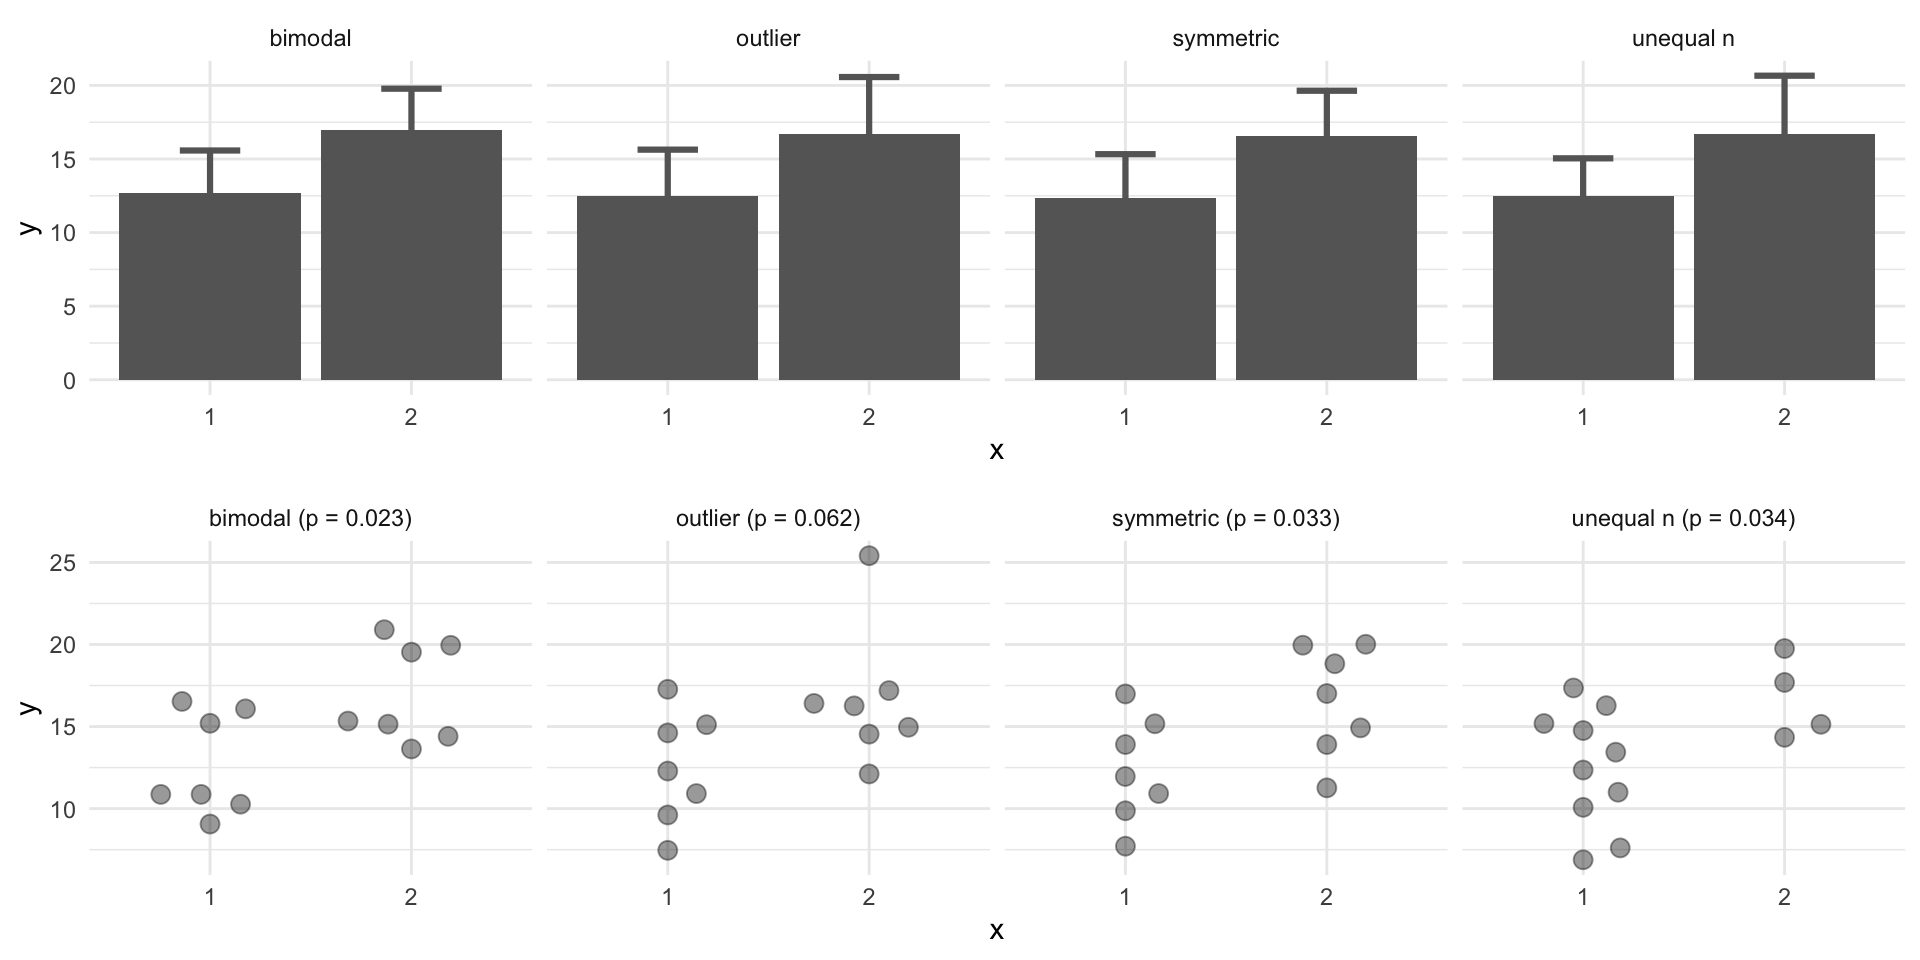
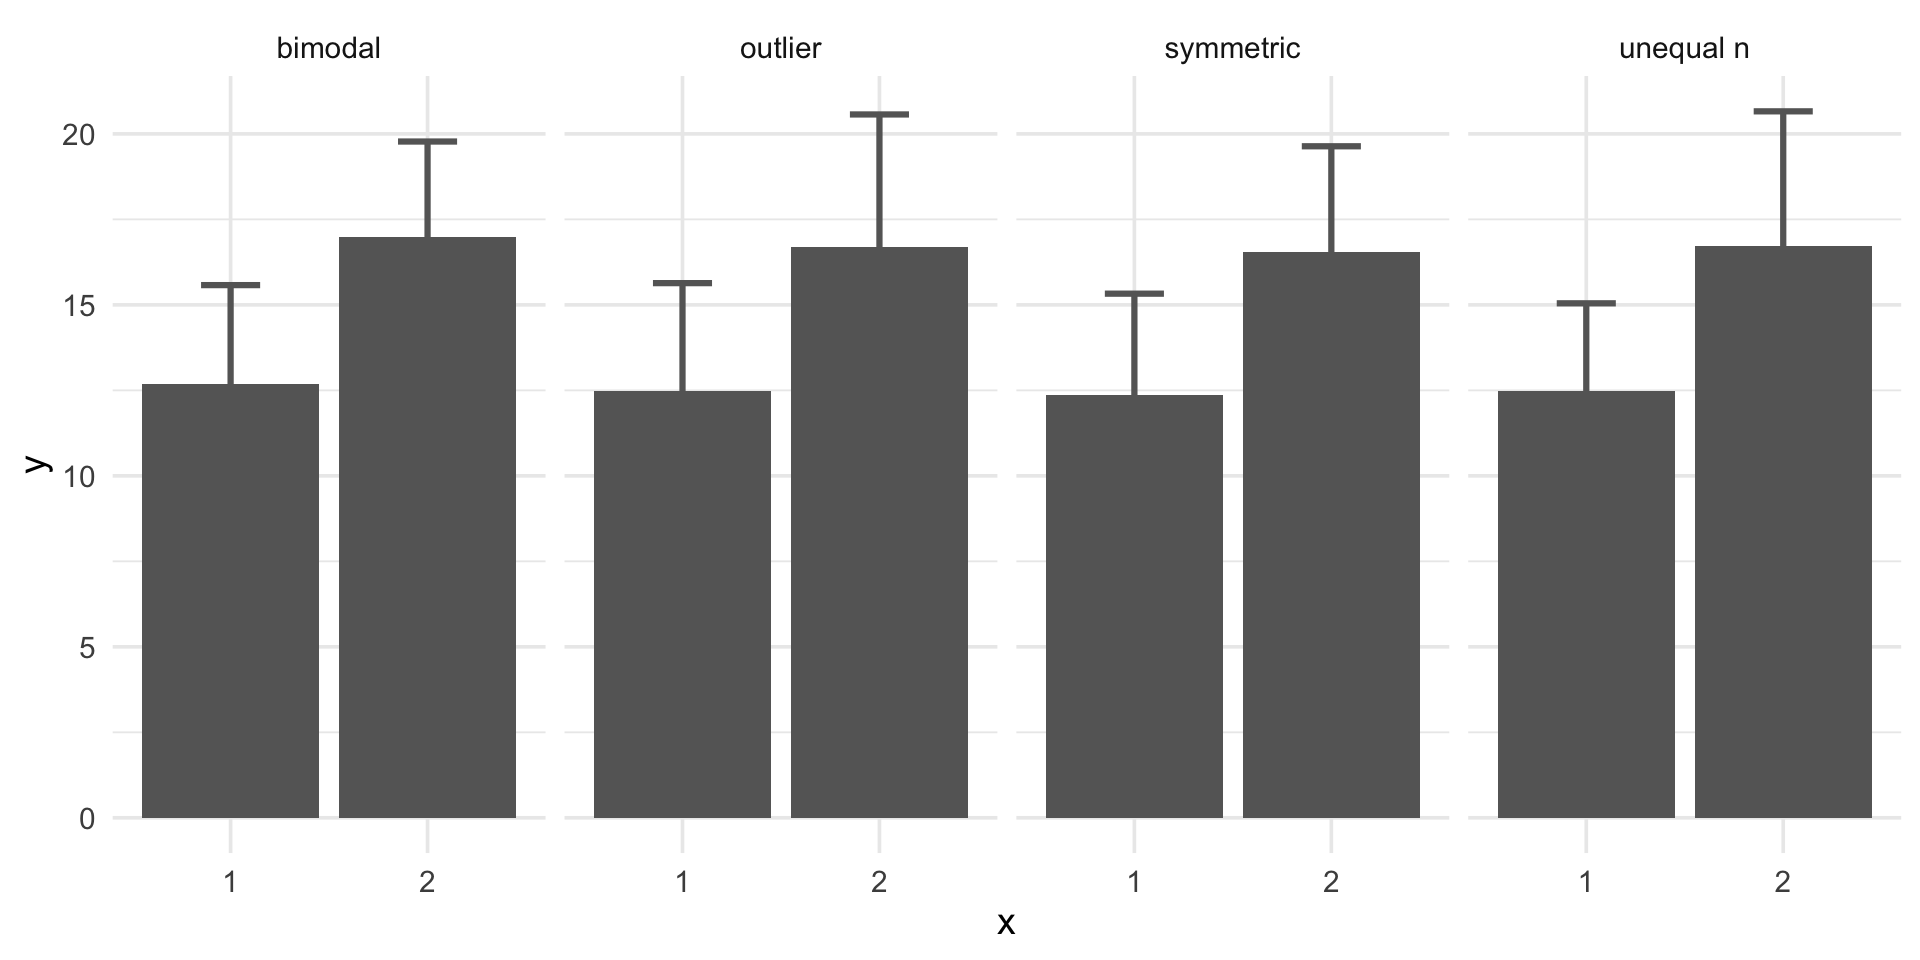
dots for overplotting

diff --git a/docs/arcas-workshop-good-stat-practice.html b/docs/arcas-workshop-good-stat-practice.html
@@ -389,6 +389,7 @@
 
 <section id="title-slide" class="quarto-title-block center">
   <h1 class="title">Effective Archaeological Science: How can we best communicate our quantitative research to help others?</h1>
+  <p class="subtitle">Code and data online at https://github.com/benmarwick/arcas-workshop-good-stat-practice</p>
 
 <div class="quarto-title-authors">
 <div class="quarto-title-author">
@@ -590,7 +591,7 @@ Ben Marwick
 <span id="cb4-29"><a href="#cb4-29"></a>               <span class="at">width =</span> <span class="fl">0.3</span>, </span>
 <span id="cb4-30"><a href="#cb4-30"></a>               <span class="at">size =</span> <span class="fl">1.1</span>)  <span class="sc">+</span></span>
 <span id="cb4-31"><a href="#cb4-31"></a>  <span class="fu">facet_wrap</span>( <span class="sc">~</span> id, <span class="at">nrow =</span> <span class="dv">1</span>) <span class="sc">+</span></span>
-<span id="cb4-32"><a href="#cb4-32"></a>  <span class="fu">theme_minimal</span>()</span>
+<span id="cb4-32"><a href="#cb4-32"></a>  <span class="fu">theme_minimal</span>(<span class="at">base_size =</span> <span class="dv">14</span>)</span>
 <span id="cb4-33"><a href="#cb4-33"></a></span>
 <span id="cb4-34"><a href="#cb4-34"></a><span class="co"># statistical text</span></span>
 <span id="cb4-35"><a href="#cb4-35"></a>plot_data_stat_test <span class="ot">&lt;-</span> </span>
@@ -616,7 +617,7 @@ Ben Marwick
 <span id="cb4-55"><a href="#cb4-55"></a>                <span class="at">size =</span> <span class="dv">3</span>,</span>
 <span id="cb4-56"><a href="#cb4-56"></a>                <span class="at">alpha =</span> <span class="fl">0.4</span>) <span class="sc">+</span></span>
 <span id="cb4-57"><a href="#cb4-57"></a>  <span class="fu">facet_wrap</span>( <span class="sc">~</span> id1, <span class="at">nrow =</span> <span class="dv">1</span>) <span class="sc">+</span></span>
-<span id="cb4-58"><a href="#cb4-58"></a>  <span class="fu">theme_minimal</span>()</span></code><button title="Copy to Clipboard" class="code-copy-button"><i class="bi"></i></button></pre></div>
+<span id="cb4-58"><a href="#cb4-58"></a>  <span class="fu">theme_minimal</span>(<span class="at">base_size =</span> <span class="dv">14</span>)</span></code><button title="Copy to Clipboard" class="code-copy-button"><i class="bi"></i></button></pre></div>
 </div>
 </div>
 <div id="tabset-3-2">
@@ -632,6 +633,13 @@ Ben Marwick
 <p>Displaying data through effective visualization: Bar bar charts (for continuous data)</p>
 </div>
 </section>
+<section id="data-are-hidden-behind-bars" class="slide level2">
+<h2>Data are hidden behind bars</h2>
+
+<img data-src="arcas-workshop-good-stat-practice_files/figure-revealjs/unnamed-chunk-6-1.png" width="960" class="r-stretch"><div class="footer">
+<p>Displaying data through effective visualization: Bar bar charts (for continuous data)</p>
+</div>
+</section>
 <section id="another-example" class="slide level2">
 <h2>Another example</h2>
 <div class="panel-tabset">
@@ -641,7 +649,7 @@ Ben Marwick
 <div class="cell">
 <div class="sourceCode cell-code" id="cb5"><pre class="sourceCode numberSource r number-lines code-with-copy"><code class="sourceCode r"><span id="cb5-1"><a href="#cb5-1"></a><span class="co"># from https://jimgrange.wordpress.com/2016/06/15/solution-to-barbarplots-in-r/</span></span>
 <span id="cb5-2"><a href="#cb5-2"></a>    </span>
-<span id="cb5-3"><a href="#cb5-3"></a><span class="co">#------------------------------------------------------------------------------</span></span>
+<span id="cb5-3"><a href="#cb5-3"></a><span class="co">#-------------------------</span></span>
 <span id="cb5-4"><a href="#cb5-4"></a><span class="co"># load required packages</span></span>
 <span id="cb5-5"><a href="#cb5-5"></a><span class="fu">library</span>(ggplot2)</span>
 <span id="cb5-6"><a href="#cb5-6"></a><span class="fu">library</span>(dplyr)</span>
@@ -670,10 +678,10 @@ Ben Marwick
 <span id="cb5-29"><a href="#cb5-29"></a>  <span class="fu">summarise</span>(<span class="at">mean =</span> <span class="fu">mean</span>(dv), </span>
 <span id="cb5-30"><a href="#cb5-30"></a>            <span class="at">median =</span> <span class="fu">median</span>(dv),</span>
 <span id="cb5-31"><a href="#cb5-31"></a>            <span class="at">se =</span> (<span class="fu">sd</span>(dv)) <span class="sc">/</span> <span class="fu">sqrt</span>(<span class="fu">length</span>(dv)))</span>
-<span id="cb5-32"><a href="#cb5-32"></a><span class="co">#------------------------------------------------------------------------------</span></span>
+<span id="cb5-32"><a href="#cb5-32"></a><span class="co">#-----------------</span></span>
 <span id="cb5-33"><a href="#cb5-33"></a> </span>
 <span id="cb5-34"><a href="#cb5-34"></a> </span>
-<span id="cb5-35"><a href="#cb5-35"></a><span class="co">#------------------------------------------------------------------------------</span></span>
+<span id="cb5-35"><a href="#cb5-35"></a><span class="co">#-----------------</span></span>
 <span id="cb5-36"><a href="#cb5-36"></a><span class="co">#--- Do the "combined" bar plot</span></span>
 <span id="cb5-37"><a href="#cb5-37"></a>p2 <span class="ot">&lt;-</span> <span class="fu">ggplot</span>()</span>
 <span id="cb5-38"><a href="#cb5-38"></a> </span>
@@ -714,7 +722,7 @@ Ben Marwick
 <div id="tabset-4-2">
 <div class="cell">
 <div class="cell-output-display">
-<p><img data-src="arcas-workshop-good-stat-practice_files/figure-revealjs/unnamed-chunk-7-1.png" width="960"></p>
+<p><img data-src="arcas-workshop-good-stat-practice_files/figure-revealjs/unnamed-chunk-8-1.png" width="960"></p>
 </div>
 </div>
 </div>
@@ -735,6 +743,108 @@ Ben Marwick
 </div>
 <div class="footer">
 <p>Displaying data through effective visualization: Bar bar charts (for continuous data)</p>
+</div>
+</section>
+<section id="bar-bar-charts-what-to-do-instead" class="slide level2">
+<h2>Bar bar charts: what to do instead?</h2>
+<div>
+<ul>
+<li class="fragment">geom_quasirandom from the ggbeeswarm package</li>
+<li class="fragment">geom_sina from the ggforce package</li>
+<li class="fragment">geom_dotplot from the ggplot2 package</li>
+</ul>
+</div>
+<div class="footer">
+<p>Displaying data through effective visualization: Bar bar charts (for continuous data)</p>
+</div>
+</section>
+<section id="dots-for-data-operative-overplotting" class="slide level2">
+<h2>Dots for data (operative overplotting)</h2>
+<div class="panel-tabset">
+<ul id="tabset-5" class="panel-tabset-tabby"><li><a data-tabby-default="" href="#tabset-5-1">Code</a></li><li><a href="#tabset-5-2">Output</a></li></ul>
+<div class="tab-content">
+<div id="tabset-5-1">
+<div class="cell">
+
+</div>
+</div>
+<div id="tabset-5-2">
+<div class="cell">
+<div class="cell-output-display">
+<p><img data-src="arcas-workshop-good-stat-practice_files/figure-revealjs/unnamed-chunk-10-1.png" width="960"></p>
+</div>
+</div>
+</div>
+</div>
+</div>
+</section>
+<section id="this-is-a-slight-improvement" class="slide level2">
+<h2>This is a slight improvement</h2>
+<div class="panel-tabset">
+<ul id="tabset-6" class="panel-tabset-tabby"><li><a data-tabby-default="" href="#tabset-6-1">Code</a></li><li><a href="#tabset-6-2">Output</a></li></ul>
+<div class="tab-content">
+<div id="tabset-6-1">
+<div class="cell">
+
+</div>
+</div>
+<div id="tabset-6-2">
+<div class="cell">
+<div class="cell-output-display">
+<p><img data-src="arcas-workshop-good-stat-practice_files/figure-revealjs/unnamed-chunk-12-1.png" width="960"></p>
+</div>
+</div>
+</div>
+</div>
+</div>
+<div class="footer">
+<p>Displaying data through effective visualization: Dots for data (operative overplotting)</p>
+</div>
+</section>
+<section id="getting-better" class="slide level2">
+<h2>Getting better</h2>
+<div class="panel-tabset">
+<ul id="tabset-7" class="panel-tabset-tabby"><li><a data-tabby-default="" href="#tabset-7-1">Code</a></li><li><a href="#tabset-7-2">Output</a></li></ul>
+<div class="tab-content">
+<div id="tabset-7-1">
+<div class="cell">
+
+</div>
+</div>
+<div id="tabset-7-2">
+<div class="cell">
+<div class="cell-output-display">
+<p><img data-src="arcas-workshop-good-stat-practice_files/figure-revealjs/unnamed-chunk-14-1.png" width="960"></p>
+</div>
+</div>
+</div>
+</div>
+</div>
+<div class="footer">
+<p>Displaying data through effective visualization: Dots for data (operative overplotting)</p>
+</div>
+</section>
+<section id="this-is-very-effective" class="slide level2">
+<h2>This is very effective</h2>
+<div class="panel-tabset">
+<ul id="tabset-8" class="panel-tabset-tabby"><li><a data-tabby-default="" href="#tabset-8-1">Code</a></li><li><a href="#tabset-8-2">Output</a></li></ul>
+<div class="tab-content">
+<div id="tabset-8-1">
+<div class="cell">
+
+</div>
+</div>
+<div id="tabset-8-2">
+<div class="cell">
+<div class="cell-output-display">
+<p><img data-src="arcas-workshop-good-stat-practice_files/figure-revealjs/unnamed-chunk-16-1.png" width="960"></p>
+</div>
+</div>
+</div>
+</div>
+</div>
+<div class="footer">
+<p>Displaying data through effective visualization: Dots for data (operative overplotting)</p>
 </div>
 <div class="footer footer-default">
 
